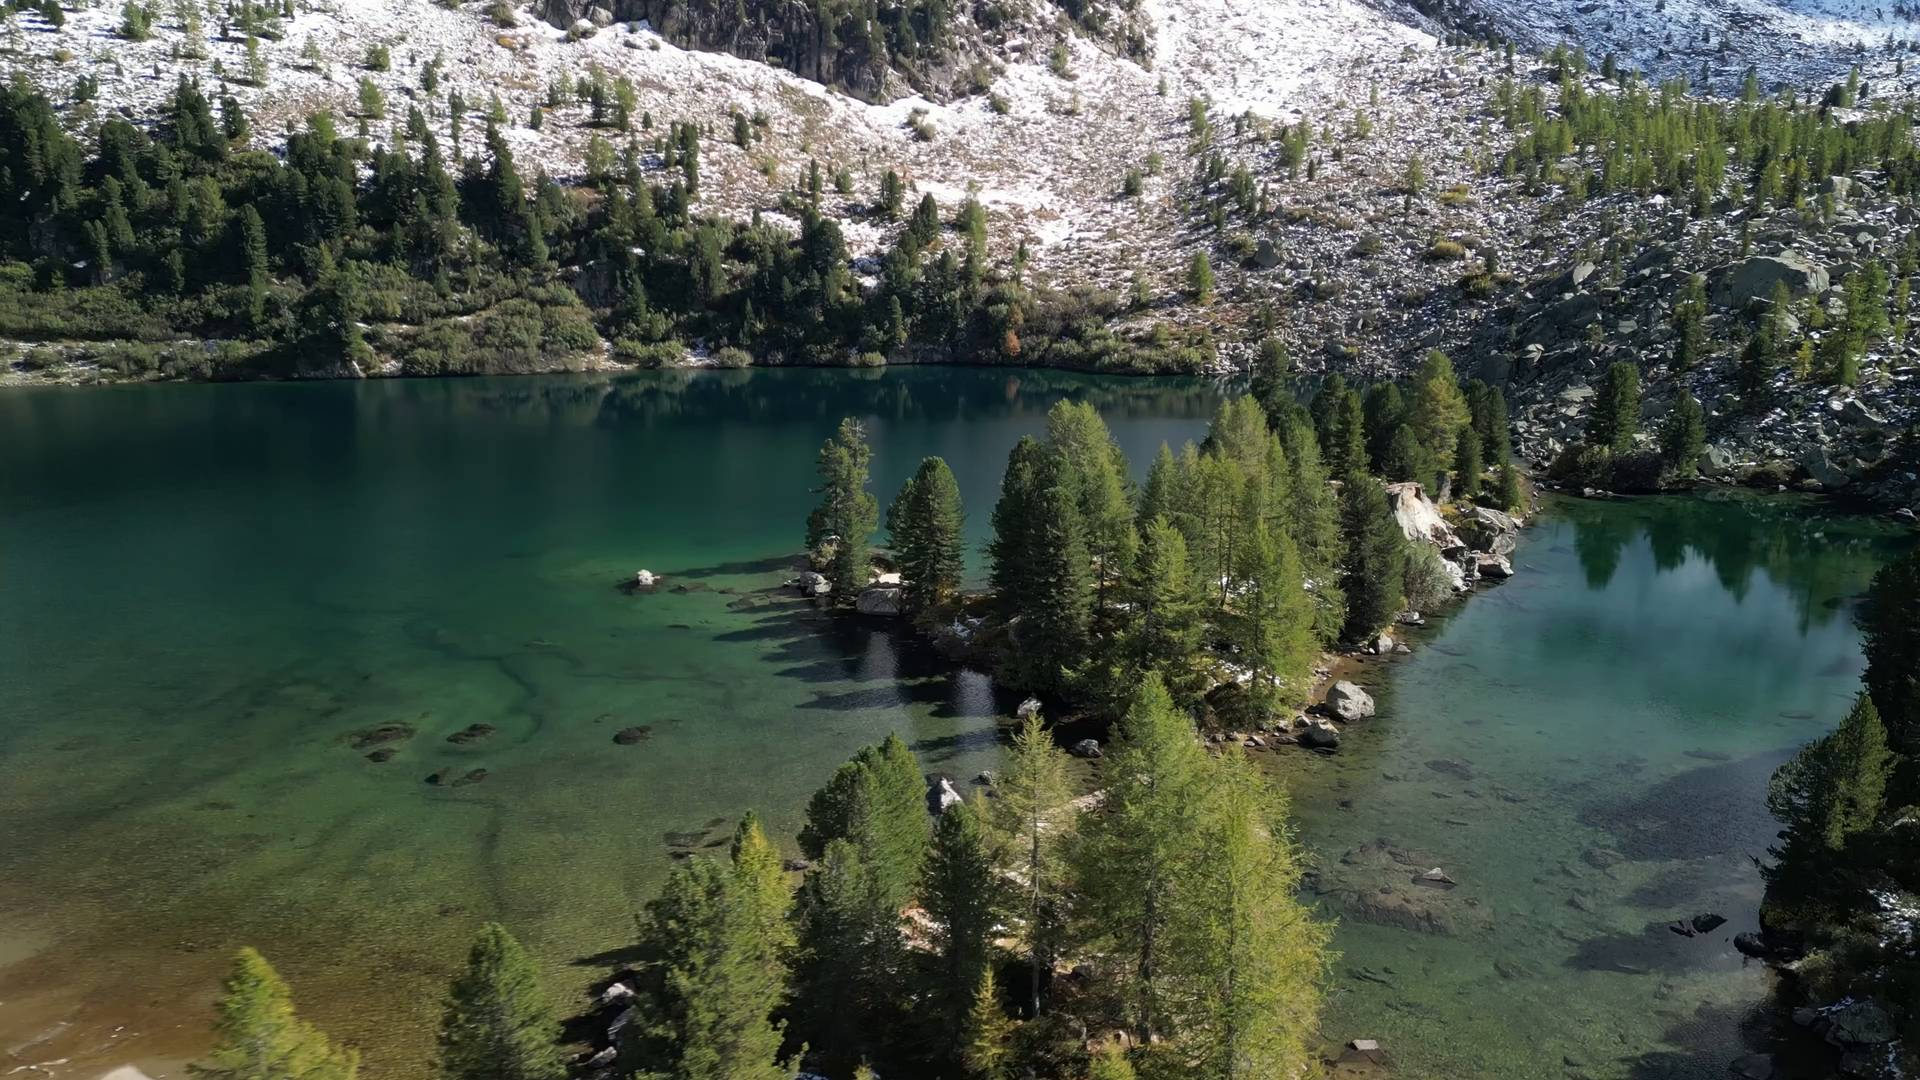
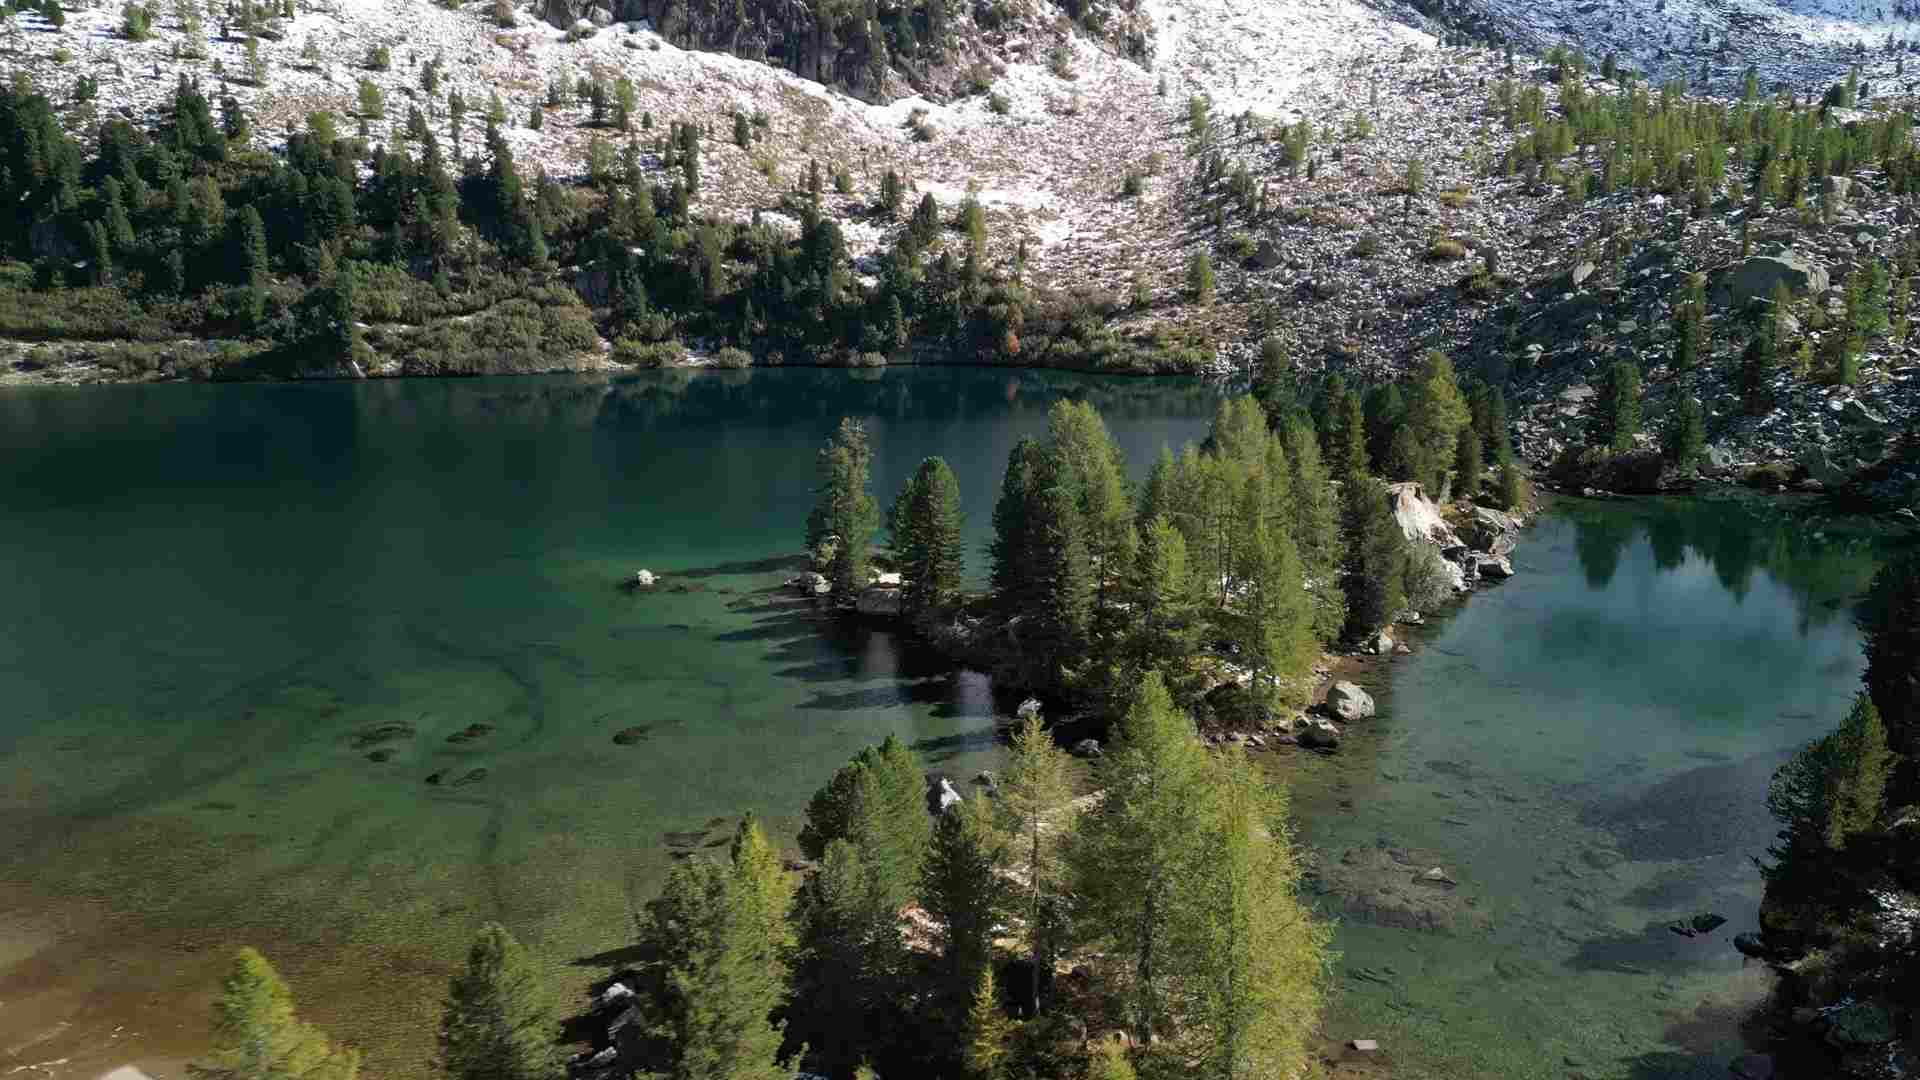
оптимізував трохи картинки

diff --git a/src/components/About.tsx b/src/components/About.tsx
@@ -1,5 +1,5 @@
 import aboutBg from '../assets/about-bg.png';
-import viktoria from '../assets/viktoria.webp';
+import viktoria from '../assets/viktoria.jpg';
 import OptimizedImage from './OptimizedImage';
 import { useTranslation } from 'react-i18next';
 
